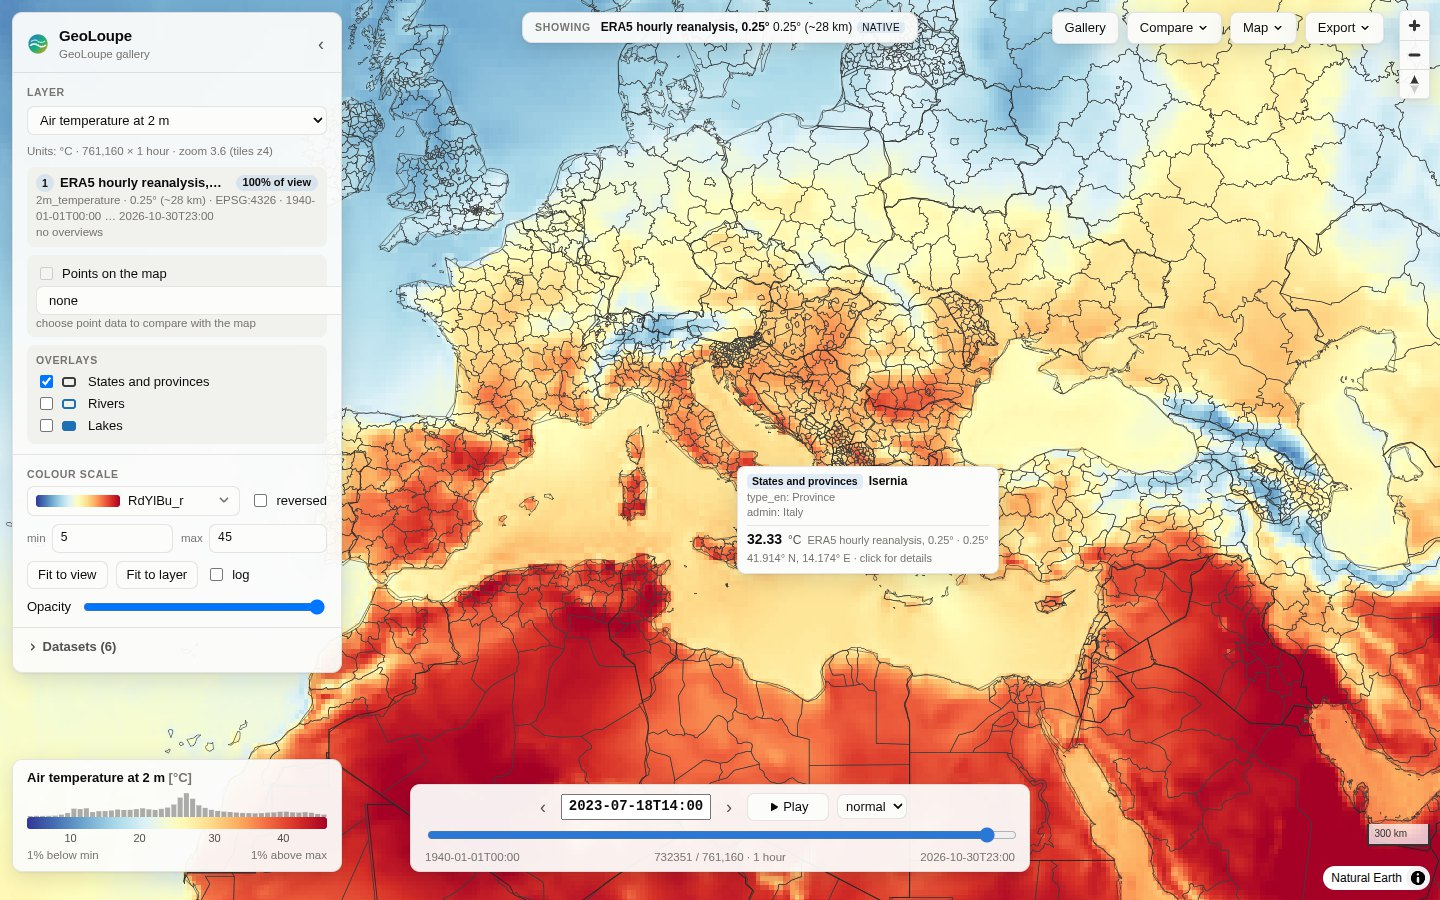
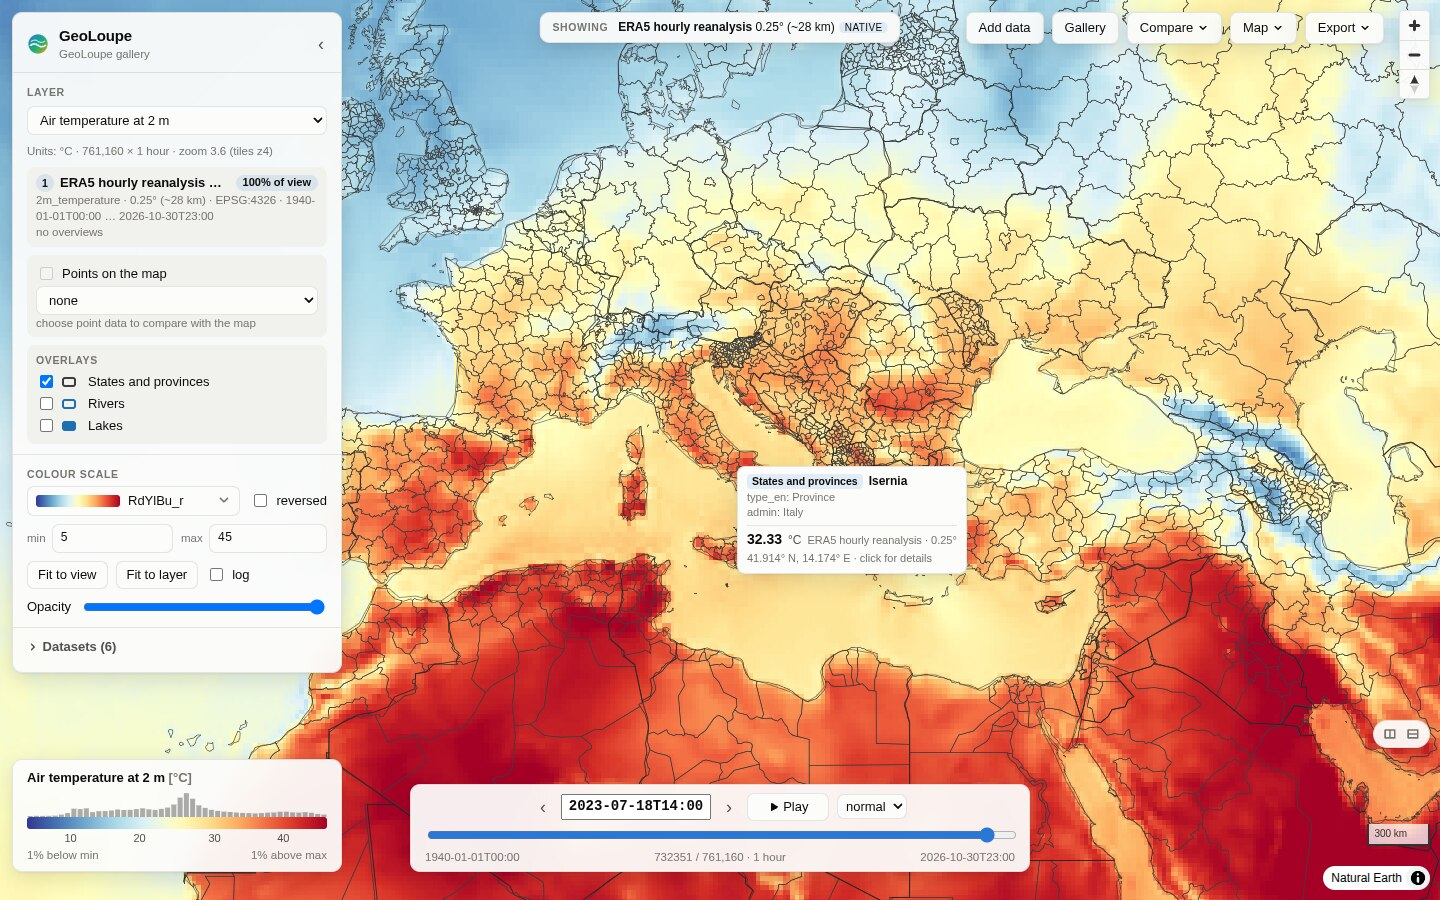
Docs, pictures and tour for 0.2; Add data dialog in the page body
README: split panes and S3 browsing in the features and limits; four new pictures (four linked
panes, three panes with the point details, the layout as one figure, Browse S3) and the gallery
pictures retaken; the tour shows a storm split into three panes with the keys. Configuration docs:
views with panes and layout. Roadmap: done in 0.2, and next (time offset, data along fjord lines,
browser-only GeoZarr). e2e/readme-shots.mjs makes the new pictures.

The Add data dialog is rendered in the page body (inside the toolbar its backdrop covered only the
toolbar); the bucket listing is filtered again only for a new filter; long names are shortened in
the middle, type labels are shorter.

Changed region(s): [[0.3438, 0.0, 0.75, 0.0622], [0.6562, 0.4978, 0.7188, 0.6533], [0.9375, 0.7778, 1.0, 0.84]]

diff --git a/frontend/src/components/AddData.tsx b/frontend/src/components/AddData.tsx
@@ -3,6 +3,7 @@
 // when the server was started with --allow-open (remote data) or --open-root DIR (local files).
 
 import { useEffect, useRef, useState } from "react";
+import { createPortal } from "react-dom";
 import { api } from "../api/client";
 import type { BrowseEntry, BrowseResult, S3Access } from "../api/types";
 import { visibleVectors } from "../lib/vectors";
@@ -13,12 +14,12 @@ type Where = "pane" | "new";
 
 const KIND_LABEL: Record<NonNullable<BrowseEntry["kind"]>, string> = {
   zarr: "Zarr",
-  netcdf: "NetCDF / HDF5",
+  netcdf: "NetCDF",
   grib: "GRIB",
-  geotiff: "GeoTIFF / COG",
-  table: "Table (stations)",
+  geotiff: "GeoTIFF",
+  table: "Table",
   vector: "Vector",
-  reference: "Kerchunk references",
+  reference: "Kerchunk",
 };
 
 const STORE_KEY = "geoloupe.s3"; // the last bucket, endpoint and access (no secrets)
@@ -30,6 +31,13 @@ function remembered(): { url: string; endpoint: string; access: "public" | "cred
   } catch {
     return empty;
   }
+}
+
+/** A long file name shortened in the middle: the end (tile, date, extension) tells files apart. */
+function shortName(name: string, max = 52): string {
+  if (name.length <= max) return name;
+  const tail = Math.ceil(max * 0.55);
+  return `${name.slice(0, max - tail - 1)}…${name.slice(-tail)}`;
 }
 
 function fmtBytes(n: number | null): string {
@@ -50,7 +58,8 @@ export function AddDataButton() {
       <button className="btn tool" onClick={() => setOpen(true)}>
         Add data
       </button>
-      {open && <AddDataDialog onClose={() => setOpen(false)} />}
+      {/* in the page body: inside the toolbar, the backdrop would cover only the toolbar */}
+      {open && createPortal(<AddDataDialog onClose={() => setOpen(false)} />, document.body)}
     </>
   );
 }
@@ -211,6 +220,7 @@ function S3Tab({
   const [profiles, setProfiles] = useState<string[]>([]);
   const [match, setMatch] = useState("");
   const [listing, setListing] = useState<BrowseResult | null>(null);
+  const [listedMatch, setListedMatch] = useState(""); // the filter of the current listing
   const [loading, setLoading] = useState(false);
   const [error, setError] = useState<string | null>(null);
   const ctl = useRef<AbortController | null>(null);
@@ -237,6 +247,7 @@ function S3Tab({
     try {
       const res = await api.browse(where.trim(), access, filter || undefined, c.signal);
       setListing(res);
+      setListedMatch(filter);
       setUrl(res.url);
       try {
         localStorage.setItem(STORE_KEY, JSON.stringify({ url: res.url, endpoint, access: mode, profile }));
@@ -344,8 +355,8 @@ function S3Tab({
               value={match}
               placeholder="Filter names…"
               onChange={(e) => setMatch(e.target.value)}
-              onKeyDown={(e) => e.key === "Enter" && list(listing.url, match)}
-              onBlur={() => match !== "" && list(listing.url, match)}
+              onKeyDown={(e) => e.key === "Enter" && match !== listedMatch && list(listing.url, match)}
+              onBlur={() => match !== listedMatch && list(listing.url, match)}
               aria-label="Filter names (press Enter)"
             />
           </div>
@@ -374,7 +385,7 @@ function S3Tab({
                 ) : (
                   <span className="s3-entry">
                     <span className="s3-name" title={e.url}>
-                      {e.name}
+                      {shortName(e.name)}
                       {e.dir ? "/" : ""}
                     </span>
                     <span className="s3-kind">{e.kind ? KIND_LABEL[e.kind] : ""}</span>

diff --git a/frontend/src/styles.css b/frontend/src/styles.css
@@ -1494,7 +1494,7 @@ button.s3-entry:hover {
   white-space: nowrap;
 }
 .s3-size {
-  width: 64px;
+  width: 56px;
   color: var(--text-muted);
   text-align: right;
   font-variant-numeric: tabular-nums;

diff --git a/README.md b/README.md
@@ -15,7 +15,7 @@ NetCDF, GRIB, GeoTIFF/COG, CSV, Parquet; local or in public cloud buckets) and r
 screen can show. Datasets of different resolution become one seamless layer: zoomed out, you see the
 coarse global field; zoom in, and the fine data takes over where it exists.
 
-![A tour of GeoLoupe: the gallery, ERA5 hour by hour with a region hover, a zoom from 31 km to 30 m, Sentinel-2 true vs false colour, and 165 years of ocean warming in a climate model](docs/images/geoloupe-tour.gif)
+![A tour of GeoLoupe: the gallery, ERA5 hour by hour with a region hover, a zoom from 31 km to 30 m, a storm split into three linked panes with the keys, Sentinel-2 true vs false colour, the Alps in four panes, and 165 years of ocean warming in a climate model](docs/images/geoloupe-tour.gif)
 
 ## Install
 
@@ -139,14 +139,22 @@ geoloupe.show({"data": ds})           # interactive map in the cell output
 * **Vector overlays.** Regions, borders, rivers, catchments, tracks or sites from GeoJSON, Shapefile,
   GeoPackage, FlatGeobuf or GeoParquet, drawn over the data; hover shows the feature's name and
   attributes next to the value under the cursor.
-* **Compare.** Side by side (two synchronised maps) or a difference map A − B, across layers or times.
+* **Split panes, like tmux.** Split the map right or down (up to 6 panes), drag the dividers, and
+  show a different layer, time and colour scale in each pane. Panes share the camera and the time
+  (each can be unlinked); the hover lists every pane's value, a click gives every pane's time
+  series, and the whole layout exports as one figure. Keys: `%` split right, `"` split down, `x`
+  close, `z` zoom a pane, `Alt`+arrows move. A difference map A − B works in any pane.
+* **Open data from S3 buckets.** *Add data → Browse S3* lists a bucket on AWS or any S3-compatible
+  store (MinIO, Ceph, SWITCH, Cloudflare R2, …), shows what GeoLoupe can open, and opens it in a pane;
+  public buckets need no setup, private ones use the server's own credentials.
 * **Many formats and grids.** Zarr v2/v3 (sharded, consolidated or not), NetCDF 3/4 and HDF5 (also
   multi-file), GRIB, GeoTIFF/COG (multi-band, palettes), kerchunk/VirtualiZarr references; local or
   remote (HTTPS, S3, GCS). Public S3 buckets work without credentials or setup. Lat/lon grids in either longitude convention, Gaussian grids, projected
   CRSs (UTM, LAEA, rotated pole, …), and curvilinear grids with 2-D longitude/latitude (ocean models,
   WRF, CMIP6 native grids, swaths).
-* **Gallery and sharing.** Featured views as a start screen; every view is a link; PNG export with
-  title, colour bar and attribution; the data in view as NetCDF; time series as CSV.
+* **Gallery and sharing.** Featured views as a start screen, also with several panes; every view is
+  a link (layout included); PNG export with title, colour bar and attribution (one pane or the whole
+  layout); the data in view as NetCDF; time series as CSV.
 * **Python and Jupyter.** `geoloupe.show(...)` puts any xarray Dataset on the map inside a
   notebook. The HTTP API (OpenAPI docs at `/api/docs`) works from any language.
 
@@ -156,8 +164,10 @@ All from `geoloupe gallery`:
 
 | | |
 |---|---|
+| ![Four panes](docs/images/four-panes.jpg) **Four linked panes over the Western Alps.** Elevation, Sentinel-2 in true and false colour, and land cover; the hover lists all four values, and the other panes mark the point. | ![Three panes and the point details](docs/images/storm-panes.jpg) **Storm Ciarán in three panes.** Wind gusts, rain and water vapour at the same hour; a click shows every pane's value and its time series. |
+| ![The layout as one figure](docs/images/layout-export.jpg) **The whole layout as one figure** (Export). The GFDL-ESM4 climate model next to ERA5, August 2014, each pane with its label and colour bar. | ![Browse S3](docs/images/s3-browse.jpg) **Add data → Browse S3.** A public AWS bucket, filtered by name; each entry says what it is, and opens in the active pane or a new one. |
 | ![Heatwave](docs/images/heatwave.jpg) **Europe's heatwave, 18 July 2023, 14 UTC.** ERA5 2 m temperature, one of 761 160 hourly steps read straight from Google Cloud, with provinces as an overlay: the hover shows the region and the value. | ![Atmospheric river](docs/images/atmospheric-river.jpg) **An atmospheric river reaches California, 9 January 2023.** Total column water vapour. |
-| ![True and false colour](docs/images/true-false-colour.jpg) **Sentinel-2, true vs false colour.** Two synchronised maps of a STAC mosaic; the false-colour side (near infrared as red) keeps its own colour scale. | ![Land cover](docs/images/landcover.jpg) **ESA WorldCover around Lake Geneva.** Class colours from the file's palette, names from the config, shares of the view in the legend. |
+| ![True and false colour](docs/images/true-false-colour.jpg) **Sentinel-2, true vs false colour.** Two linked panes of a STAC mosaic; the false-colour pane (near infrared as red) has its own colour scale. | ![Land cover](docs/images/landcover.jpg) **ESA WorldCover around Lake Geneva.** Class colours from the file's palette, names from the config, shares of the view in the legend. |
 | ![Elevation](docs/images/elevation.jpg) **The Matterhorn in the Copernicus DEM (30 m).** Six 1° tiles form one layer, with ERA5's orography outside them. | ![Stations](docs/images/stations.jpg) **GHCN-Daily stations, 18 July 2023.** Click one for its whole daily record. |
 | ![Ocean warming](docs/images/ocean-warming.jpg) **165 years of ocean warming in a climate model.** GFDL-ESM4 (CMIP6) sea surface temperature on its own curvilinear (tripolar) grid, August 2014 minus August 1850. | ![Western Alps](docs/images/alps-stac.jpg) **The Western Alps from space.** The 10 least cloudy Sentinel-2 scenes of August 2023, found with a STAC search and shown as one seamless mosaic. |
 
@@ -181,7 +191,7 @@ the decision log.
 
 ## Status and limitations
 
-GeoLoupe 0.1 is a working first version (see [ROADMAP.md](ROADMAP.md)):
+GeoLoupe 0.2 is young but complete enough for daily use (see [ROADMAP.md](ROADMAP.md)):
 
 * Grids: rectilinear and curvilinear. Unstructured meshes (UGRID, HEALPix, ICON) are not supported
   yet. Curvilinear grids show the nearest cell (no averaging) and get coarser levels by subsampling;
@@ -195,7 +205,11 @@ GeoLoupe 0.1 is a working first version (see [ROADMAP.md](ROADMAP.md)):
   seconds; later reads use GDAL's and the server's caches.
 * No authentication or multi-user features; bind to localhost or use an authenticating proxy. This
   matters most with `--allow-open` / `--open-root`, which let any visitor make the server read URLs
-  or local files below the given folders.
+  (and list S3 buckets, with the server's credentials) or local files below the given folders.
+* GeoLoupe always runs a server; there is no browser-only mode for static GeoZarr pyramids yet.
+  Private GeoTIFFs on a non-AWS S3 store need `AWS_S3_ENDPOINT` (GDAL reads them).
+* Panes are linked in time to the same moment; a fixed offset between panes (e.g. 30 years earlier)
+  is planned.
 
 ## Contributing
 

diff --git a/ROADMAP.md b/ROADMAP.md
@@ -82,10 +82,23 @@ Later in this series: unstructured meshes (UGRID, ICON, HEALPix), vector fields 
 Icechunk. General analysis features (model error layers, station validation statistics, time-chunked
 copies for long series) follow in the next section.
 
+## Done in 0.2
+
+* Split panes like tmux (layout tree, up to 6 panes, draggable dividers, presets, keys, linked
+  camera and time per pane, hover and point series of all panes, layouts in links and in featured
+  views, the whole layout as one PNG). It replaces the side-by-side comparison.
+* *Add data → Browse S3*: AWS and S3-compatible stores, public or with the server's credentials;
+  viewer links (`?store=…&endpoint=…`) open their data; GeoZarr `multiscales` pyramids use every level.
+* HTTPS with the system's certificates (macOS, Windows), clear messages for unreachable data and for
+  data that is not a map.
+
 ## Next (short term: weeks)
 
 | Item | Why | Notes |
 |---|---|---|
+| **Time offset between panes** | Before/after, climate change: "the same day, 30 years earlier" | A pane linked with an offset; steps follow the active pane |
+| **Fjord and transect data on the map** | Data binned along a line (distance × time), e.g. along fjord centre lines | Needs the line geometry; draw segments coloured by value, or a distance × time chart |
+| **Browser-only mode for GeoZarr pyramids** | Public demos without a server (static hosting) | Read `multiscales` stores with zarrita in the client, as OpenLayers' GeoZarr source does |
 | **Station statistics** | Validation at a glance | Bias/RMSE of grid − stations in view, per day and over a period; optional alignment of local station days with UTC grid days |
 | **Time-optimised copies for series** | Point series over 38 years are slow with map-chunked data | `alternates:` in the dataset config, e.g. a rechunked (time-contiguous) copy used only by `/timeseries` |
 | **Overview builds on clusters** | Building overviews of multi-terabyte stores | Partition by time (template in `examples/hpc/`); resume; `--append` for new times |

diff --git a/docs/benchmarks.md b/docs/benchmarks.md
@@ -84,7 +84,7 @@ and us-west-2, Google Cloud, NOAA). Network latency dominates; numbers vary betw
 | Public S3 (from the cluster): one CMIP6 field through s3fs / through HTTPS | 53.7 s / 4.0 s |
 | Public S3: open a CMIP6 Zarr store and a DEM COG (`s3://` paths, no credentials) | 6–7 s and 0.6 s |
 | 11 gallery previews (480 × 240 px, stitched from up to 9 tiles each) | 6.6–16 s for all, in the browser (the cold Sentinel-2 mosaics take longest) |
-| Open a featured view until all tiles are loaded (browser) | 2.3–4.6 s; 7.2 s for the side-by-side Sentinel-2 view |
+| Open a featured view until all tiles are loaded (browser) | 2.3–4.6 s; 7.2 s for the two-pane Sentinel-2 view (true and false colour) |
 
 ## Overview builds
 
@@ -99,6 +99,6 @@ and us-west-2, Google Cloud, NOAA). Network latency dominates; numbers vary betw
 |---|---|---|
 | Python (`pytest`): engine vs brute force, compositing, levels, budgets, CRSs, calendars, overviews, readers, API, stations, satellite rasters, classes, gallery, vectors, STAC, curvilinear grids, Add data, S3, regressions | 141 | 7–90 s (file-system dependent) |
 | Web client (`vitest`): tile decoding (byte layout shared with Python), colour mapping, RGB, classes, Mercator math, URL state, timelines, gallery links, comparison scales, overlays | 28 | < 2 s |
-| Browser smoke test, demo data (`e2e/smoke.mjs`): global, Alps 1 km + hover, inspector, split, difference, LAEA grid, station hover + click, points layer, Add data | 9 scenarios | ~35 s |
+| Browser smoke test, demo data (`e2e/smoke.mjs`): global, Alps 1 km + hover, inspector, two panes (from a 0.1 side-by-side link), difference, LAEA grid, station hover + click, points layer, Add data | 9 scenarios | ~35 s |
 | Browser smoke tests on public remote data (Sentinel-2 true and false colour, ARCO-ERA5, NOAA GHCN stations) | 4 scenarios | ~60 s |
 | Gallery test (`e2e/gallery.mjs`): start screen and previews, then every featured view from its card | 11 views | ~60 s |

diff --git a/CONTRIBUTING.md b/CONTRIBUTING.md
@@ -28,7 +28,9 @@ frontend/                 web client (TypeScript, React, MapLibre)
   src/components/         UI components
   src/state/store.ts      application state (zustand)
   e2e/smoke.mjs           browser smoke test and screenshots (Playwright)
-  e2e/gallery.mjs         browser test of the gallery: previews and every featured view
+  e2e/gallery.mjs         browser test of the gallery: previews, every featured view, S3 browsing
+  e2e/panes.mjs           browser test of the split panes (demo data)
+  e2e/tour.mjs, readme-shots.mjs   the README animation and pictures (docs/images)
 tests/                    Python tests (pytest)
 examples/                 configurations and notebooks
 docs/                     research, decisions, formats, configuration, benchmarks
@@ -62,7 +64,8 @@ Browser tests (need a running server and Playwright's Chromium):
 cd frontend && npx playwright install chromium
 node e2e/smoke.mjs http://127.0.0.1:8000 /tmp/shots     # demo data; fails on console errors or missing content
                                                         # (start the server with --open-root demo to test "Add data")
-node e2e/gallery.mjs http://127.0.0.1:8000 /tmp/gallery # `geoloupe gallery` (needs internet)
+node e2e/panes.mjs http://127.0.0.1:8000 /tmp/shots     # demo data: split panes
+node e2e/gallery.mjs http://127.0.0.1:8000 /tmp/gallery # `geoloupe gallery --allow-open` (needs internet)
 ```
 
 > **HPC / shared machines:** keep environments and caches out of the home directory. Point

diff --git a/docs/configuration.md b/docs/configuration.md
@@ -113,9 +113,20 @@ views:                                  # featured views: the gallery start scre
     vmin: 5
     vmax: 45
     # globe: true                       # optional: globe projection, basemap: minimal | light | dark
-    # compare: other-layer              # optional: a second layer, compare_mode: split | diff,
-    #                                   #   compare_time; overlay: <points-id> or none
+    # compare: other-layer              # optional: the difference A − B (compare_mode: diff,
+    #                                   #   compare_time); overlay: <points-id> or none
     # vectors: [regions]                # optional: the overlays shown in this view
+  - title: Storm Ciarán in three panes  # a view with several panes (up to 6)
+    layer: wind-gust                    # the first pane: the view's own layer, time, colours
+    time: "2023-11-02T00:00"
+    center: [-5, 48.5]
+    zoom: 4.2
+    layout: "3"                         # 2h (side by side), 2v (stacked), 3, 4, or e.g. r50(0,c50(1,2))
+    panes:                              # the other panes, in layout order
+      - {layer: precipitation, vmin: 0, vmax: 3}   # time: the view's unless given
+      - {layer: water-vapour}
+      # per pane also: dims, colormap, log, compare + compare_time (A − B in that pane),
+      # link_view: false / link_time: false (the pane keeps its own camera / time)
 
 settings:
   max_read_cells: 6000000               # per tile and source; above → next coarser level or skip

diff --git a/CHANGELOG.md b/CHANGELOG.md
@@ -15,7 +15,6 @@ the configuration format; such changes are listed here).
   read-out lists the value of every pane, and the other panes mark the point. Keys: `%` or `|`
   split right, `"` split down, `x` close, `z` zoom a pane, `Alt`+arrows move between panes.
   Presets (1, 2, 3, 4 panes) in the Compare menu. Links keep the whole layout.
-
 - With several panes, the point details show every pane at the clicked point: its value now and its
   time series around the current time, one chart per unit and time step (hourly and monthly data
   are not mixed on one axis), each pane in its own colour.
@@ -40,6 +39,8 @@ the configuration format; such changes are listed here).
 ### Fixed
 
 - Open menus (Export, Compare, …) are drawn above the point details panel.
+- The *Add data* dialog opens in the middle of the page over a dimmed map; it was squeezed into the
+  toolbar's corner.
 - Panes of a link or view that share the time start at the link's time, not at the latest one.
 
 - A `?` in a web address (query string) is no longer read as a file pattern, so signed or
